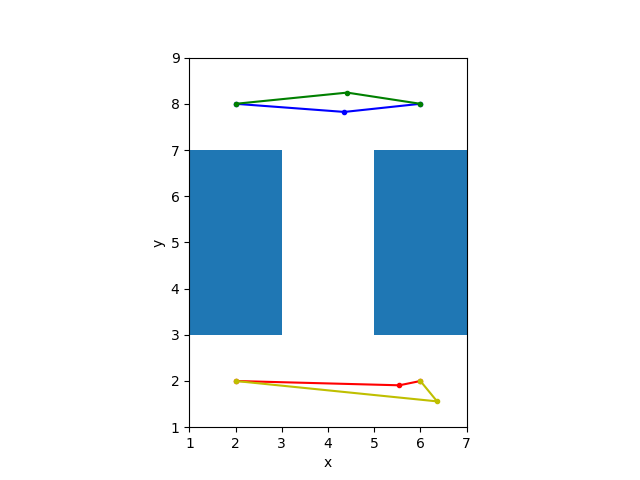
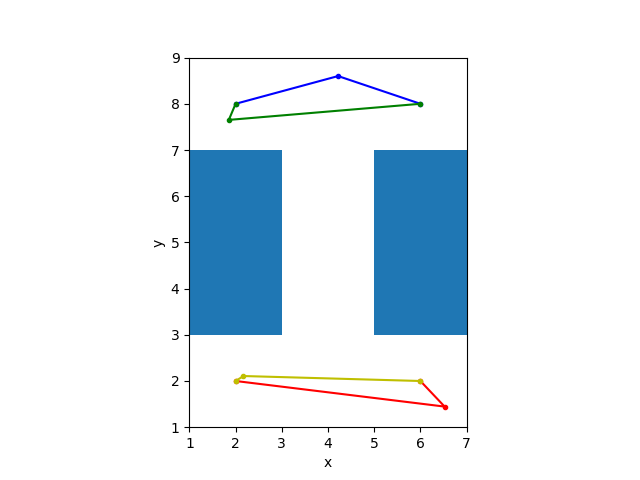
debugging and removing redundancies

Changed region(s): [[0.3438, 0.1562, 0.6562, 0.25], [0.375, 0.7812, 0.6875, 0.8438], [0.6875, 0.8438, 0.7188, 0.875]]

diff --git a/src/dRRT.cpp b/src/dRRT.cpp
@@ -164,11 +164,11 @@ ompl::base::PlannerStatus ompl::geometric::dRRT::solve(const base::PlannerTermin
                 //si_->freeState(tempState);
                 continue;
             }
-            if(!(si_->isValid(tempState)))
+            /*if(!(si_->isValid(tempState)))
             {
                 si_->freeState(tempState);
                 continue;
-            }
+            }*/
             si_->copyState(rstate, tempState);
             si_->freeState(tempState);
 
@@ -185,7 +185,7 @@ ompl::base::PlannerStatus ompl::geometric::dRRT::solve(const base::PlannerTermin
 
         if ((nbrR1.empty()) || (nbrR2.empty()) || (nbrR3.empty()) || (nbrR4.empty()))
         {
-            std::cout << "NO NEIGHBOR, PICKING NEW QRAND" << std::endl;
+            //std::cout << "NO NEIGHBOR, PICKING NEW QRAND" << std::endl;
             continue;
         }
 
@@ -248,7 +248,7 @@ ompl::base::PlannerStatus ompl::geometric::dRRT::solve(const base::PlannerTermin
 
         // TODO: now need to collision check/local connector! 
         
-        if ((!(localConnector(nmotion->state, qNew))) or (!(si_->checkMotion(nmotion->state, qNew))))
+        if (!(localConnector(nmotion->state, qNew))) //or (!(si_->checkMotion(nmotion->state, qNew))))
         {
             si_->freeState(qNew);
             continue;
@@ -278,7 +278,7 @@ ompl::base::PlannerStatus ompl::geometric::dRRT::solve(const base::PlannerTermin
         }
     }
 
-    //std::cout << "done with loop" << std::endl;
+    std::cout << "local connect fails: " << noConnect << std::endl;
 
     bool solved = false;
     bool approximate = false;

diff --git a/src/dRRT.h b/src/dRRT.h
@@ -122,6 +122,8 @@ namespace ompl
             ompl::base::SpaceInformationPtr spaceInfo3;
             ompl::base::SpaceInformationPtr spaceInfo4;
 
+            int noConnect = 0;
+
             std::pair<std::vector<ompl::base::State *>, std::map<std::pair<double, double>, long signed int>> createPRMNodes(PRM::Graph roadmap){
 
                 // Maps vertices to state - name of property is og::PRM::vertex_state_t() 
@@ -555,15 +557,19 @@ namespace ompl
 
                 // Once queue is empty, if one of our vertices is false, then there is a cycle somewhere/cannot assign priorities to the robots for valid movement
                 
-                std::set<std::pair<double, double>> remainingNodes;
+                //std::set<std::pair<double, double>> remainingNodes;
                 for (auto i = vertices.begin(); i != vertices.end(); i++)
                 {
                     if (i->second == false)
                     {
-                        remainingNodes.insert(i->first);
+                        //remainingNodes.insert(i->first);
+                        //std::cout << "no connect" << std::endl;
+                        noConnect++;
+                        return false;
                     }
                 }
-                return remainingNodes.empty();
+                //return remainingNodes.empty();
+                return true;
             }
          
 

diff --git a/src/ProjectG.cpp b/src/ProjectG.cpp
@@ -115,8 +115,11 @@ void planRobot(og::SimpleSetupPtr & ss, const char* robotID)
     auto prmPtr = std::make_shared<og::PRM>(ss->getSpaceInformation());
     ss->setPlanner(prmPtr);
 
+    // An attempt to cut down on the neighbors we are searching through in dRRT
+    //prmPtr->setMaxNearestNeighbors(10);
+
     //solve the problem:
-    ob::PlannerStatus solved = ss->solve(10.0);
+    ob::PlannerStatus solved = ss->solve(30.0);
 
     if (solved)
     {
